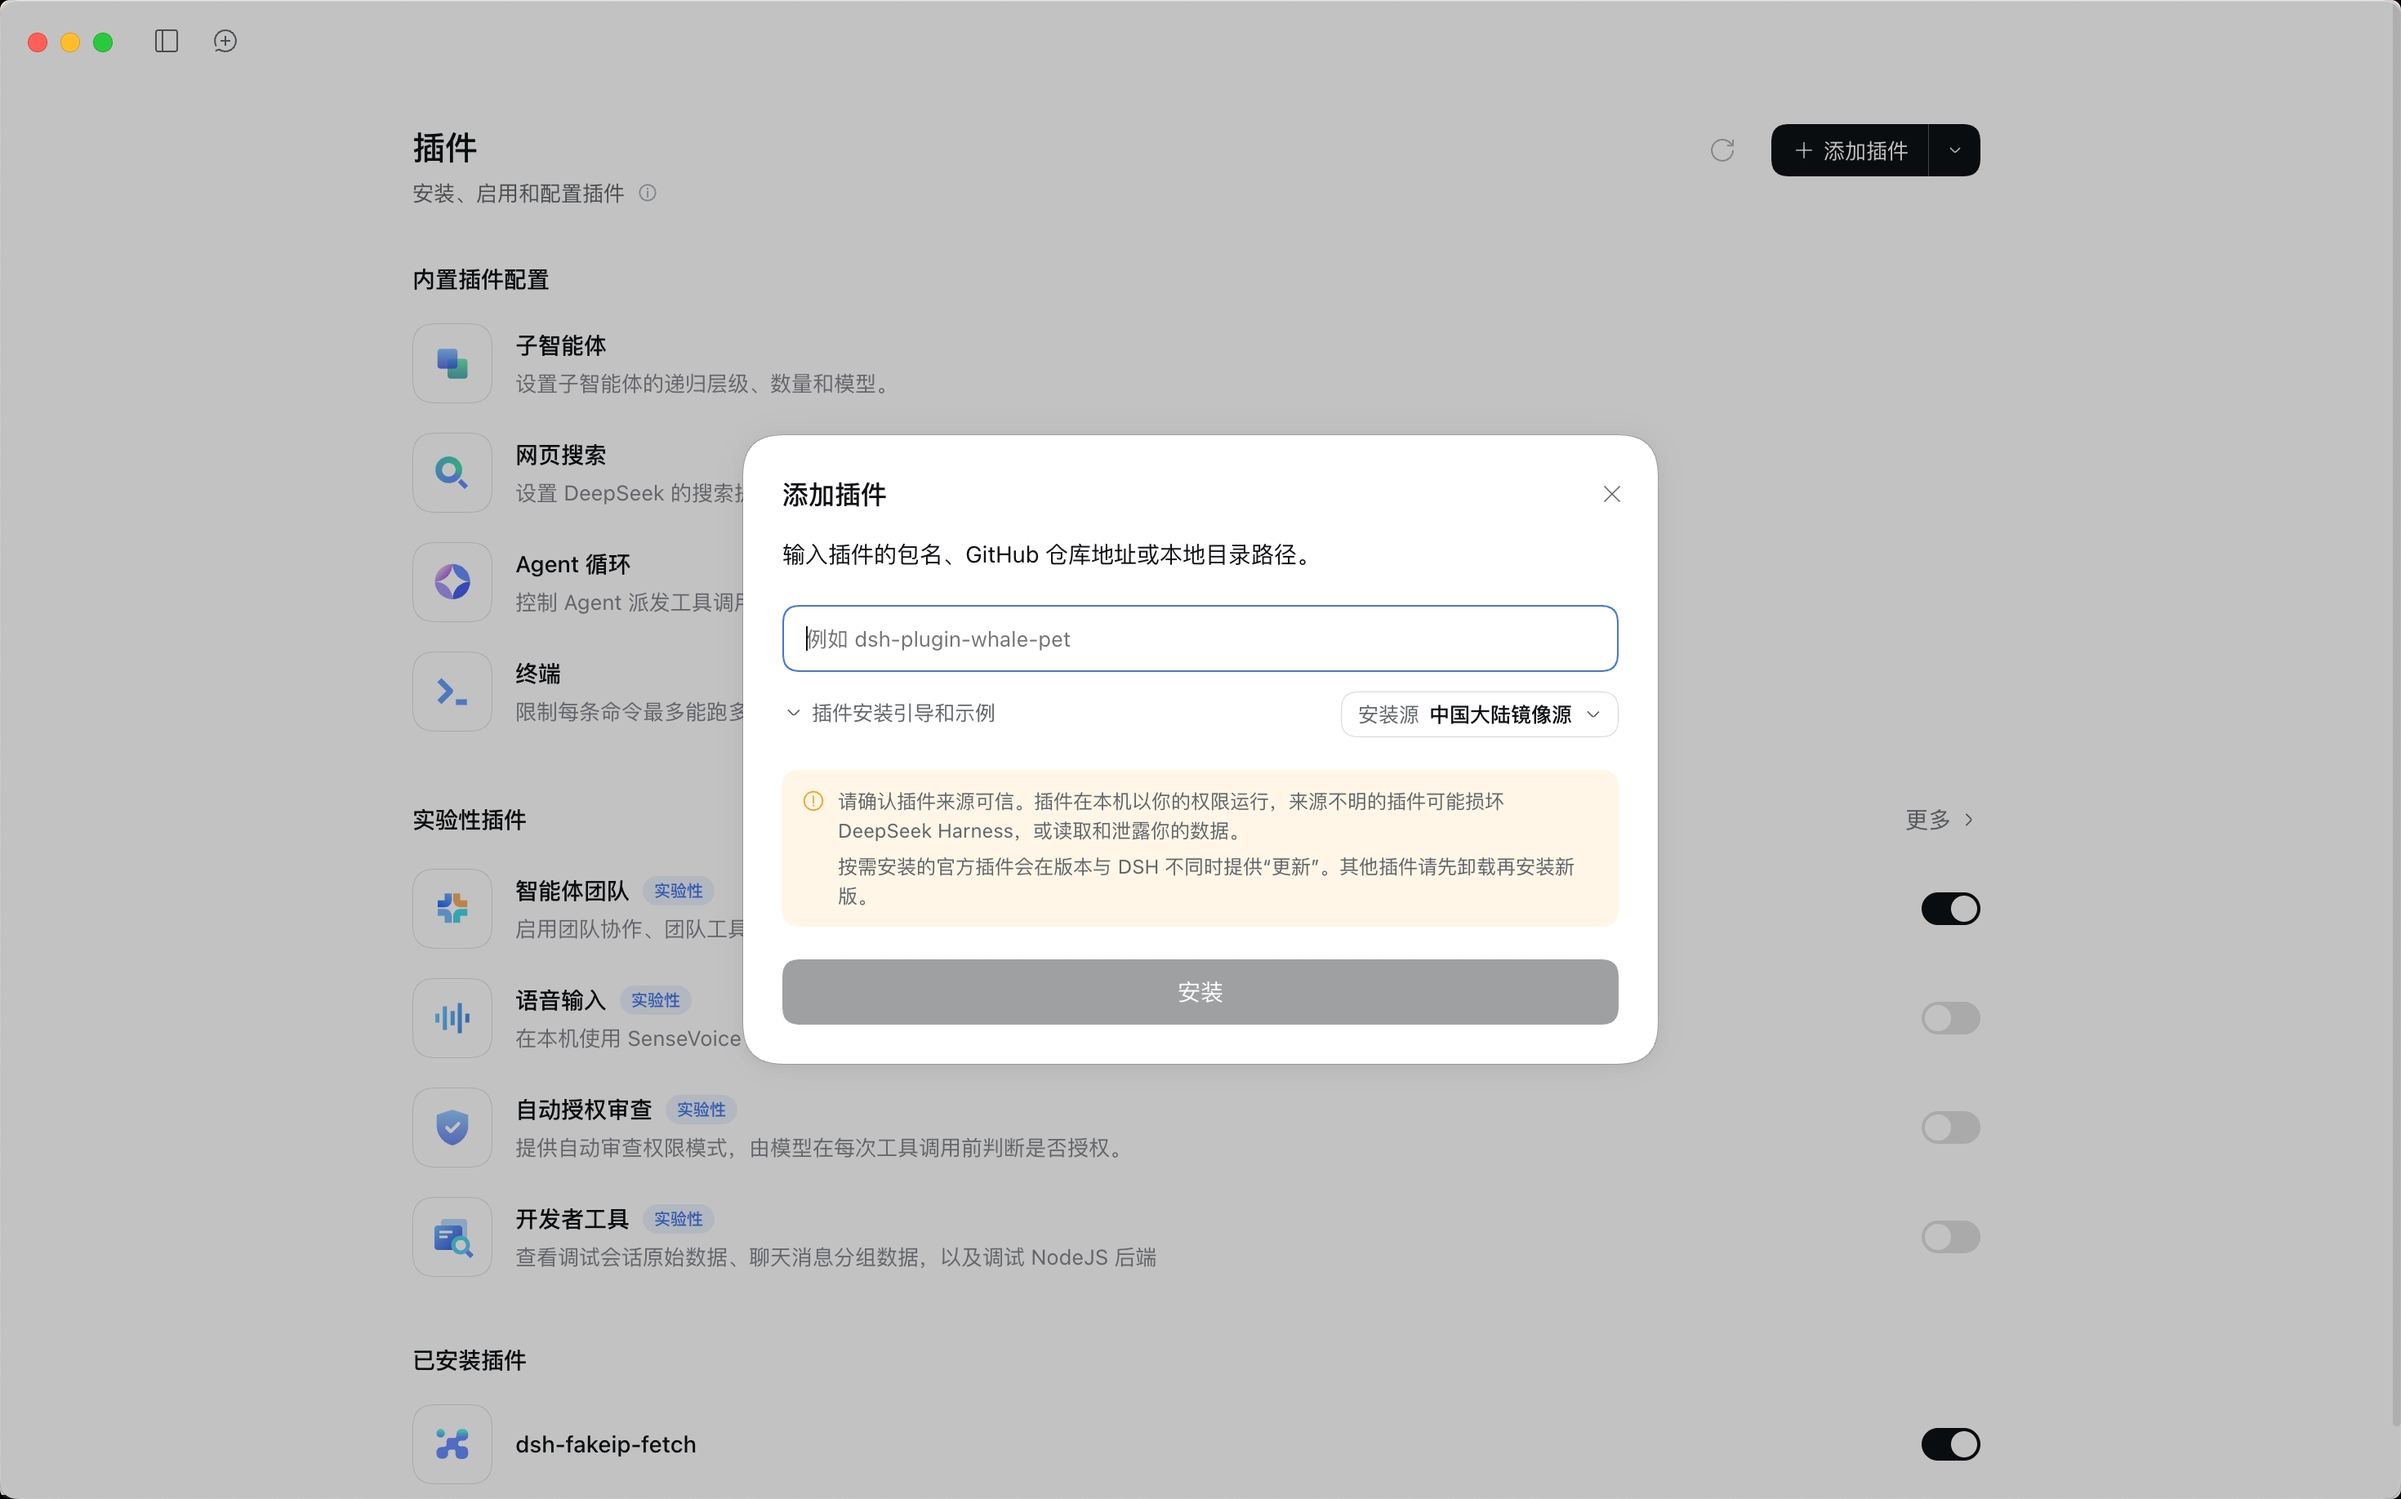
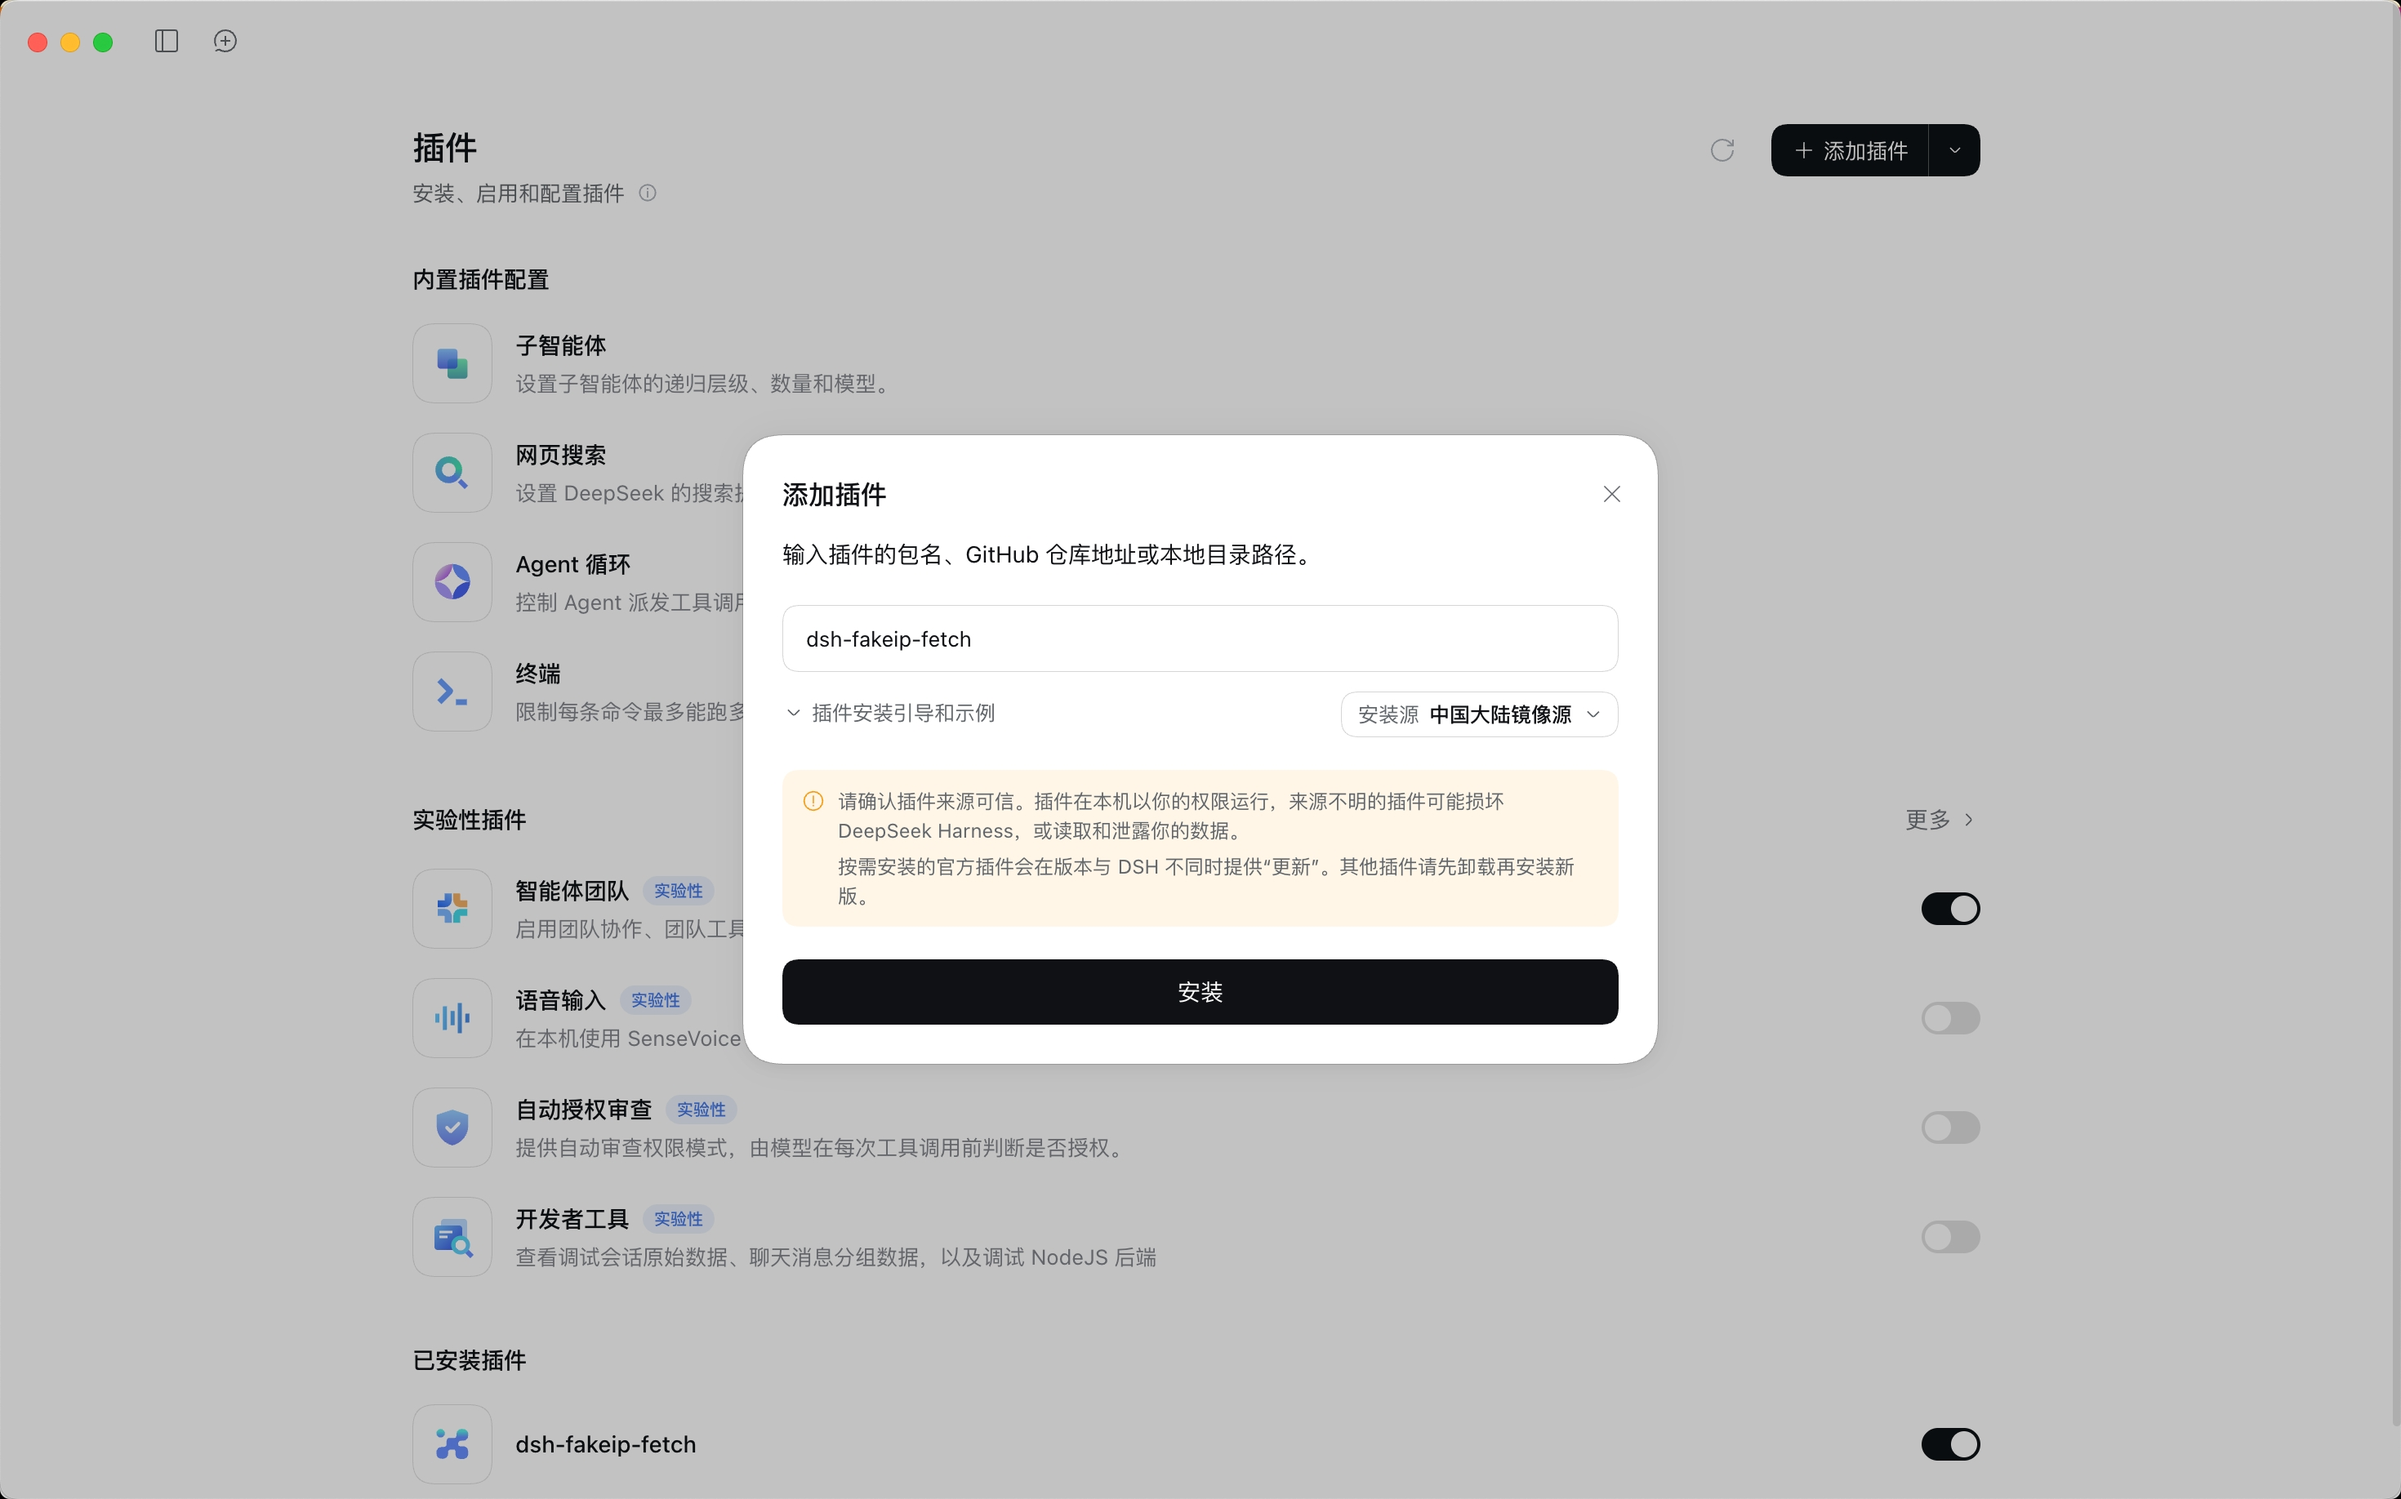
ci: 添加自动测试并完善项目说明
在支持的 Node 版本上自动运行测试，并更新 npm 徽章、安装截图和 README 说明。

Changed region(s): [[0.3095, 0.6209, 0.681, 0.683], [0.3405, 0.4036, 0.4333, 0.4346]]

diff --git a/README.md b/README.md
@@ -1,10 +1,11 @@
 # dsh-fakeip-fetch
 
-![Version](https://img.shields.io/badge/version-0.5.2-4D6BFE)
+[![npm version](https://img.shields.io/npm/v/dsh-fakeip-fetch?logo=npm)](https://www.npmjs.com/package/dsh-fakeip-fetch)
+[![CI](https://github.com/Hariketsu/dsh-fakeip-fetch/actions/workflows/ci.yml/badge.svg)](https://github.com/Hariketsu/dsh-fakeip-fetch/actions/workflows/ci.yml)
 ![Node.js](https://img.shields.io/badge/Node.js-24.9%2B-339933?logo=node.js&logoColor=white)
 [![License](https://img.shields.io/badge/license-MIT-555)](LICENSE)
 
-DSH 插件：让本机 HTTP 抓取在 TUN Fake-IP 代理环境下正常工作。
+绕过 DSH 内置 WebFetch 对 Fake-IP 地址的 SSRF 限制，让本机 HTTP 抓取在 TUN Fake-IP 代理环境下正常工作。
 
 ## 为什么要用 dsh-fakeip-fetch？
 
@@ -14,6 +15,19 @@ DSH 插件：让本机 HTTP 抓取在 TUN Fake-IP 代理环境下正常工作。
 | 网络出口 | 服务端网络 | 本机网络和代理 | 本机网络和代理 |
 | TUN Fake-IP | 不受本机 Fake-IP 影响 | 支持配置的 Fake-IP 网段 | 在已验证的 DSH 版本中，Fake-IP 地址会被当作非公网地址拒绝 |
 | 网页访问 | 取决于服务端网络 | 取决于本机网络和代理 | 取决于本机网络和代理；Fake-IP 模式下可能被拦截 |
+
+## 官方 Fetch API 的访问情况
+
+近期测试中 `POST /v1/tools/fetch` 的结果，反映的是当时的服务端出口。
+
+| 目标                                                        | 测试结果                         |
+| ----------------------------------------------------------- | -------------------------------- |
+| `ipinfo.io`、`ifconfig.co`                                  | 返回中国大陆的华为云出口 IP      |
+| `wikimediafoundation.org`、`dbpedia.org`                    | 可以抓取                         |
+| Wikipedia、Google、X、YouTube、Reddit、BBC、NYT 等          | 返回 404                         |
+| `raw.githubusercontent.com`、Hugging Face、`archive.org` 等 | 返回 404                         |
+| Stack Overflow、npmjs、Reuters、AP 等                       | 等待约 13–30 秒后返回 404 或 504 |
+
 
 ## 安装和快速上手
 
@@ -34,13 +48,13 @@ dsh plugin --profile <profile> add dsh-fakeip-fetch --ignore-scripts --config.au
 在项目目录运行 `npm pack`，然后在 DSH 的「添加插件」窗口中输入生成的文件路径，例如：
 
 ```text
-file:/absolute/path/to/dsh-fakeip-fetch-0.5.2.tgz
+/path/to/dsh-fakeip-fetch-<version>.tgz
 ```
 
 也可以通过 CLI 安装：
 
 ```bash
-dsh plugin --profile <profile> add /absolute/path/to/dsh-fakeip-fetch-0.5.2.tgz \
+dsh plugin --profile <profile> add /path/to/dsh-fakeip-fetch-<version>.tgz \
   --ignore-scripts --config.auto-install-peers=false --store-dir <store>
 ```
 
@@ -54,17 +68,13 @@ dsh plugin --profile <profile> add /absolute/path/to/dsh-fakeip-fetch-0.5.2.tgz 
 
 设置页还提供超时、响应大小、重定向次数和 User-Agent 等传输设置。卸载插件后，内置的 HTTP provider 会恢复。
 
-### 从 dsh-local-fetch 升级
-
-先在插件页卸载旧包 `dsh-local-fetch`，再安装 `dsh-fakeip-fetch`。两个包使用同一个 provider ID，不能同时安装。
-
-首次启动时，插件会读取旧配置并迁移网段和传输设置。旧的 `local-fetch` 配置行会保留在 profile patch 中，但不会被加载。
-
 ## 工作原理与兼容性
 
-插件使用本机 HTTP 抓取，经过本机网络和代理。内置 provider 因地址限制拒绝请求时，插件会重新解析域名；只有解析结果全部属于配置的 Fake-IP 网段，才会重试。直接使用 IP 地址的 URL 不走 Fake-IP 重试，重定向时也会重新检查地址。
+DSH 的 HTTP provider 会将 Fake-IP 模式下解析到代理使用的虚拟地址视为非公网地址并拒绝请求。
 
-插件沿用 DSH 的 HTTP 传输实现，包括 TLS、同源重定向、超时和响应大小限制。它依赖的地址解析器参数不是公开的插件 API：目前已在 DSH Desktop `0.2.1-rc.3`、build `be72761ee1a6736ebcdf4f3739363b083ae53c98` 上测试，其他 DSH 版本或构建尚未验证。如果宿主不支持该参数，插件会退回普通 HTTP 抓取，Fake-IP 重试不可用。
+插件使用 DSH 的 HTTP 传输实现，保留 TLS、同源重定向、超时和响应大小等限制。
+
+插件依赖的地址解析器参数不是公开的插件 API：目前已在 DSH Desktop `0.2.1-rc.3`上测试，其他 DSH 版本或构建尚未验证。
 
 插件针对 TUN Fake-IP 模式；使用 `redir-host` 模式时通常不需要它。跨源重定向沿用 DSH 的限制，需要直接请求目标 URL。
 
